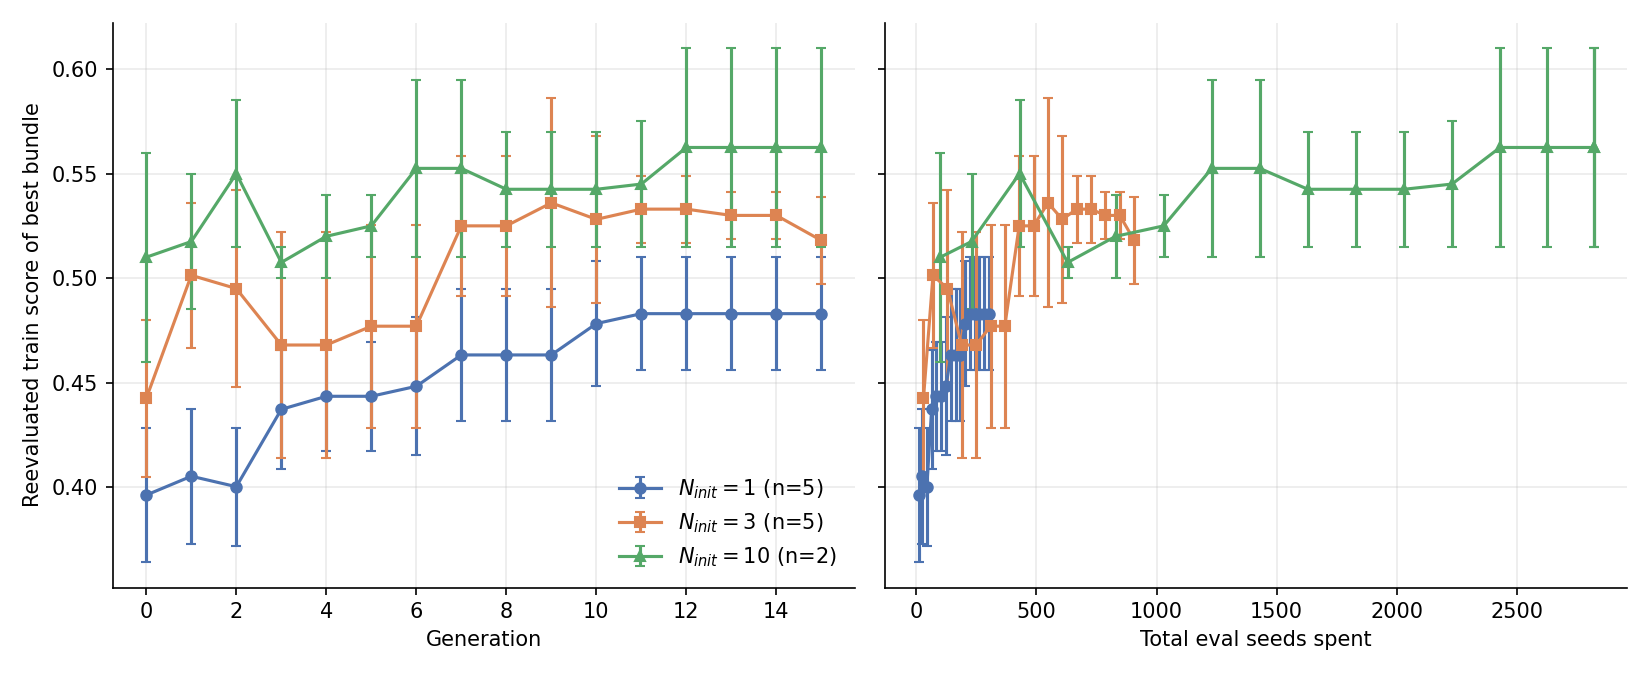
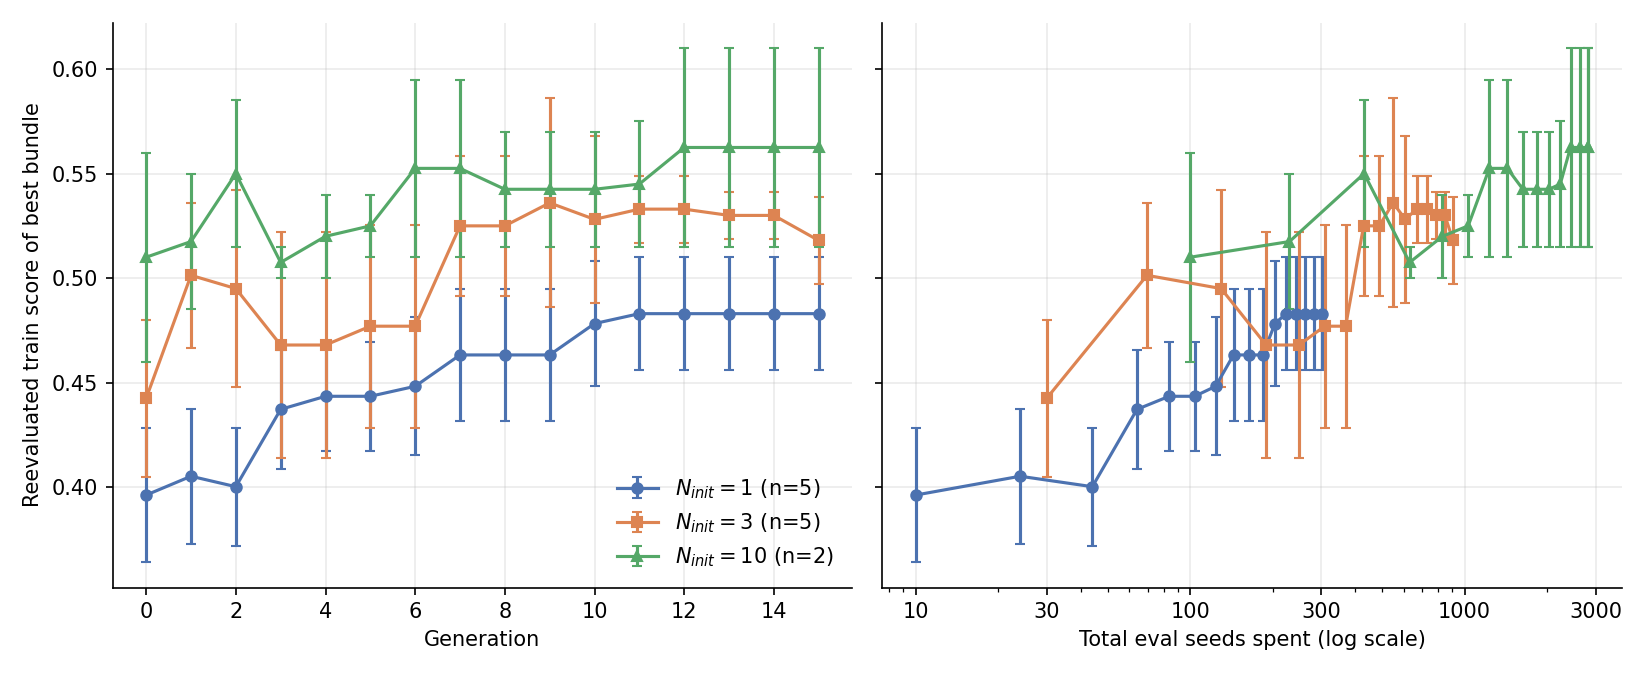
Log x-axis on eval panel

diff --git a/figures/plot_n1_n3_n10_reeval_train.py b/figures/plot_n1_n3_n10_reeval_train.py
@@ -83,7 +83,10 @@ def main():
         axe.errorbar(xe, mu, yerr=sd, color=color, marker=marker, ms=5, lw=1.5,
                      capsize=2.5, label=lab)
     axg.set_xlabel("Generation")
-    axe.set_xlabel("Total eval seeds spent")
+    axe.set_xscale("log")
+    axe.set_xticks([10, 30, 100, 300, 1000, 3000])
+    axe.get_xaxis().set_major_formatter(matplotlib.ticker.ScalarFormatter())
+    axe.set_xlabel("Total eval seeds spent (log scale)")
     axg.set_ylabel("Reevaluated train score of best bundle")
     for ax in (axg, axe):
         ax.grid(alpha=0.25)
